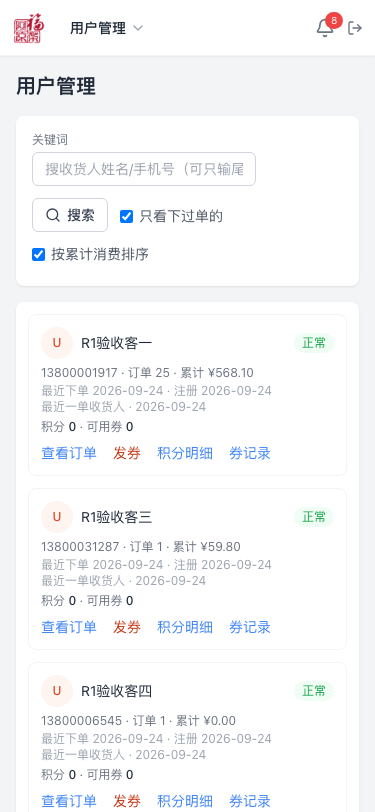
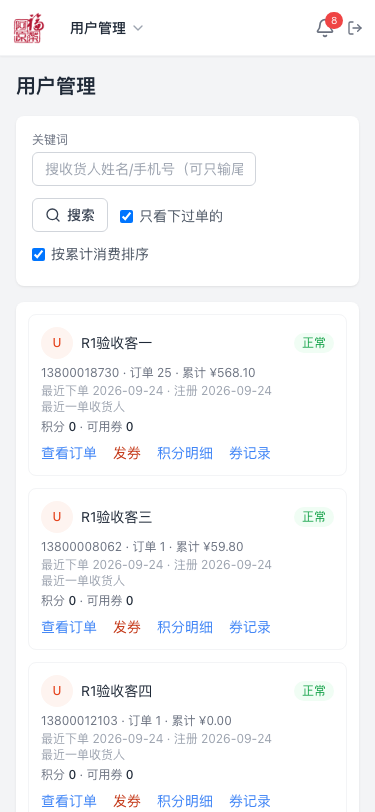
fix(admin): 用户管理——修订 2：手机号小字去重复日期，1024 行高压回 ≤62（2026-09-24）
按裁决（方案修订 2，commit 37c58eb）：修订 1 的「1024 档 rowH=77>70」判定成立，是门槛数字
规划漏算——手机号列第二行小字「最近一单收货人 · 日期」在 1024 列宽下需要两行，而该日期
与同一行「最近下单」列完全重复。修法（零信息损失）：

- Users.tsx:388（手机卡片）、Users.tsx:429（电脑表格）小字改为「最近一单收货人」，去掉
  ` · 日期`，并加 whitespace-nowrap。
- 已做的 px-3 xl:px-4、操作列 grid grid-cols-2 xl:flex 保留不动。
- 服务端零改动。

验证：admin tsc/test(203)/build 全绿；三档 DOM 实测（食物床 food_shop_uo 私有库现建现删）
1024 rowH 从 77 降到 61（判定门槛改 ≤62）、「最近一单收货人」元素高 16（≤18）；1280/1440
不变（61）；375 scrollWidth 三处仍 ≤375。desk-1024-list.png/desk-list.png/375-list.png
已重拍（字节核实已变），measurements.md §1/§8 按新结果重写。

diff --git a/apps/admin/src/pages/Users.tsx b/apps/admin/src/pages/Users.tsx
@@ -383,9 +383,10 @@ export default function Users() {
                   <p className="text-xs text-gray-400 mt-0.5">
                     最近下单 {fmtDate(u.latestOrder?.createdAt, '-')} · 注册 {fmtDate(u.createdAt)}
                   </p>
-                  {/* 号码来自订单收货人快照而非微信绑定号时，必须标出来源，不然店主会当成本人手机号 */}
+                  {/* 号码来自订单收货人快照而非微信绑定号时，必须标出来源，不然店主会当成本人手机号。
+                      日期不重复放：上一行「最近下单」已经是同一个值（修订 2） */}
                   {phoneInfo?.source === 'order' && u.latestOrder && (
-                    <p className="text-xs text-gray-400">最近一单收货人 · {fmtDate(u.latestOrder.createdAt)}</p>
+                    <p className="text-xs text-gray-400">最近一单收货人</p>
                   )}
                   <p className="text-xs text-gray-500 mt-1">
                     积分 <span className="text-gray-800 font-medium">{u.pointsBalance}</span> · 可用券{' '}
@@ -424,8 +425,9 @@ export default function Users() {
                 {phoneInfo ? (
                   <>
                     <div className="whitespace-nowrap">{phoneInfo.phone}</div>
+                    {/* 日期不重复放：「最近下单」列已经是同一个值（修订 2，把 1024 行高从 77 压回 ≤62） */}
                     {phoneInfo.source === 'order' && u.latestOrder && (
-                      <div className="text-xs text-gray-400">最近一单收货人 · {fmtDate(u.latestOrder.createdAt)}</div>
+                      <div className="text-xs text-gray-400 whitespace-nowrap">最近一单收货人</div>
                     )}
                   </>
                 ) : '-'}
